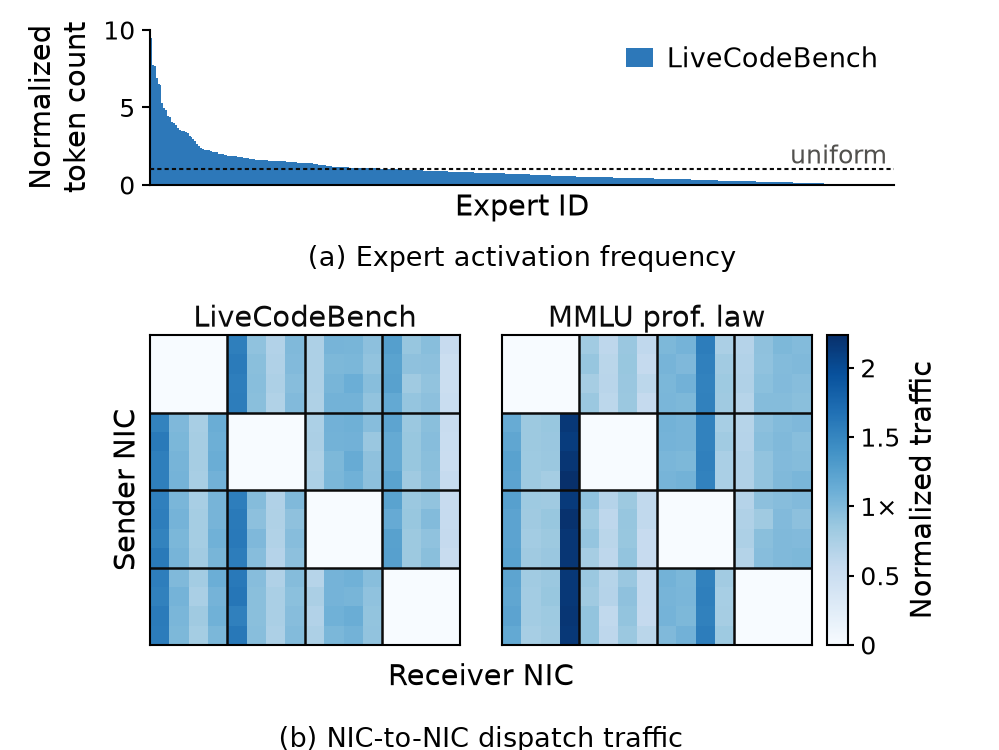
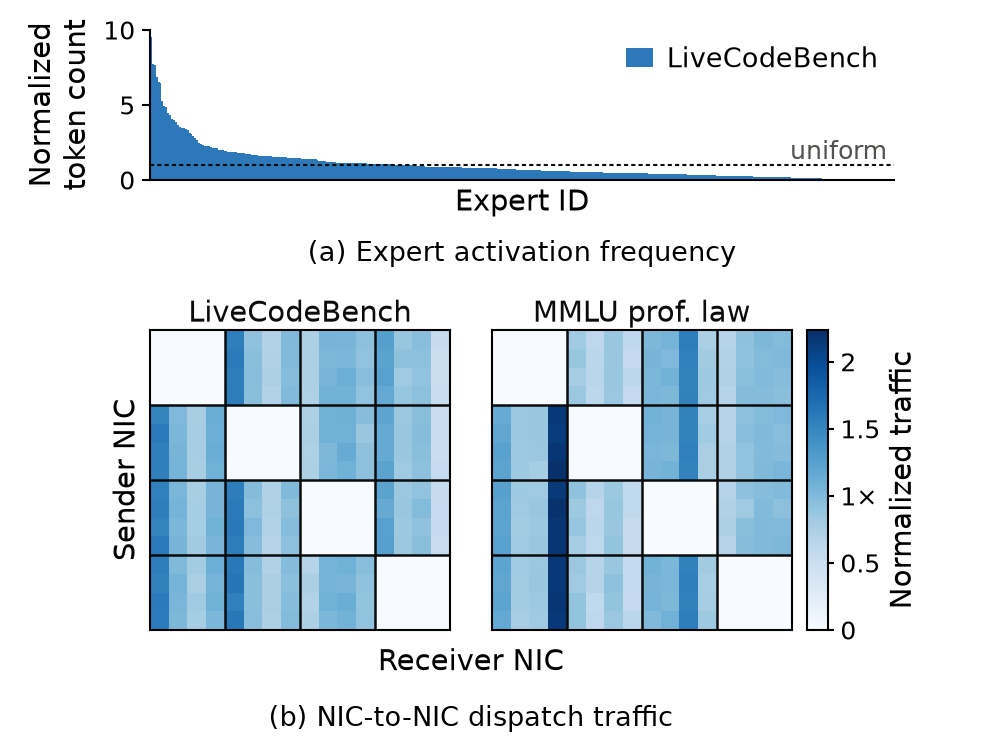
figs/intro v3.5.1: bottom margin clears the (b) sub-label descenders (was clipped at the page edge)

diff --git a/figs/intro/make_figure.py b/figs/intro/make_figure.py
@@ -23,12 +23,12 @@ CONFIG = dict(
     VGAP_IN=0.50,                            # v3.1: gap holds the x label + "(a)" sub-label + heatmap titles
     BAR_TOPICS=["livecodebench/execution"],  # v3.1: panel (a) shows LiveCodeBench only (prof. law's 33x outlier hides the shape)
     PANEL_LABELS=["(a) Expert activation frequency", "(b) NIC-to-NIC dispatch traffic"],
-    SUBLABEL_A_IN=0.20, SUBLABEL_B_IN=0.27,  # distance below each panel's axes (inches)
+    SUBLABEL_A_IN=0.20, SUBLABEL_B_IN=0.25,  # distance below each panel's axes (inches)
     HM_XLABEL_IN=0.06,                       # v3.4: no tick labels, so the x label moves back up under the maps
     HM_GAP_IN=0.14,                          # v3: gap between the two heatmaps (inches)
     # --- geometry (inches; USENIX column 3.33 in, text height 9.0 in) ---
     FIG_W=3.33, FIG_H=2.50,                  # v3.4: tick labels gone, bottom strip tightened
-    LEFT=0.15, RIGHT=0.895, BOTTOM=0.14, TOP=0.96,   # LEFT holds the two-line y label + panel tags   # RIGHT leaves room for the colorbar label
+    LEFT=0.15, RIGHT=0.895, BOTTOM=0.16, TOP=0.96,   # BOTTOM must clear the (b) sub-label descenders   # LEFT holds the two-line y label + panel tags   # RIGHT leaves room for the colorbar label
     SPLIT=0.50,                             # fraction of the width given to the bar panel
     WSPACE_IN=0.42,                          # gap between bar panel and heatmaps (inches)
     HSPACE_IN=0.30,                          # gap between the two heatmaps (inches)
